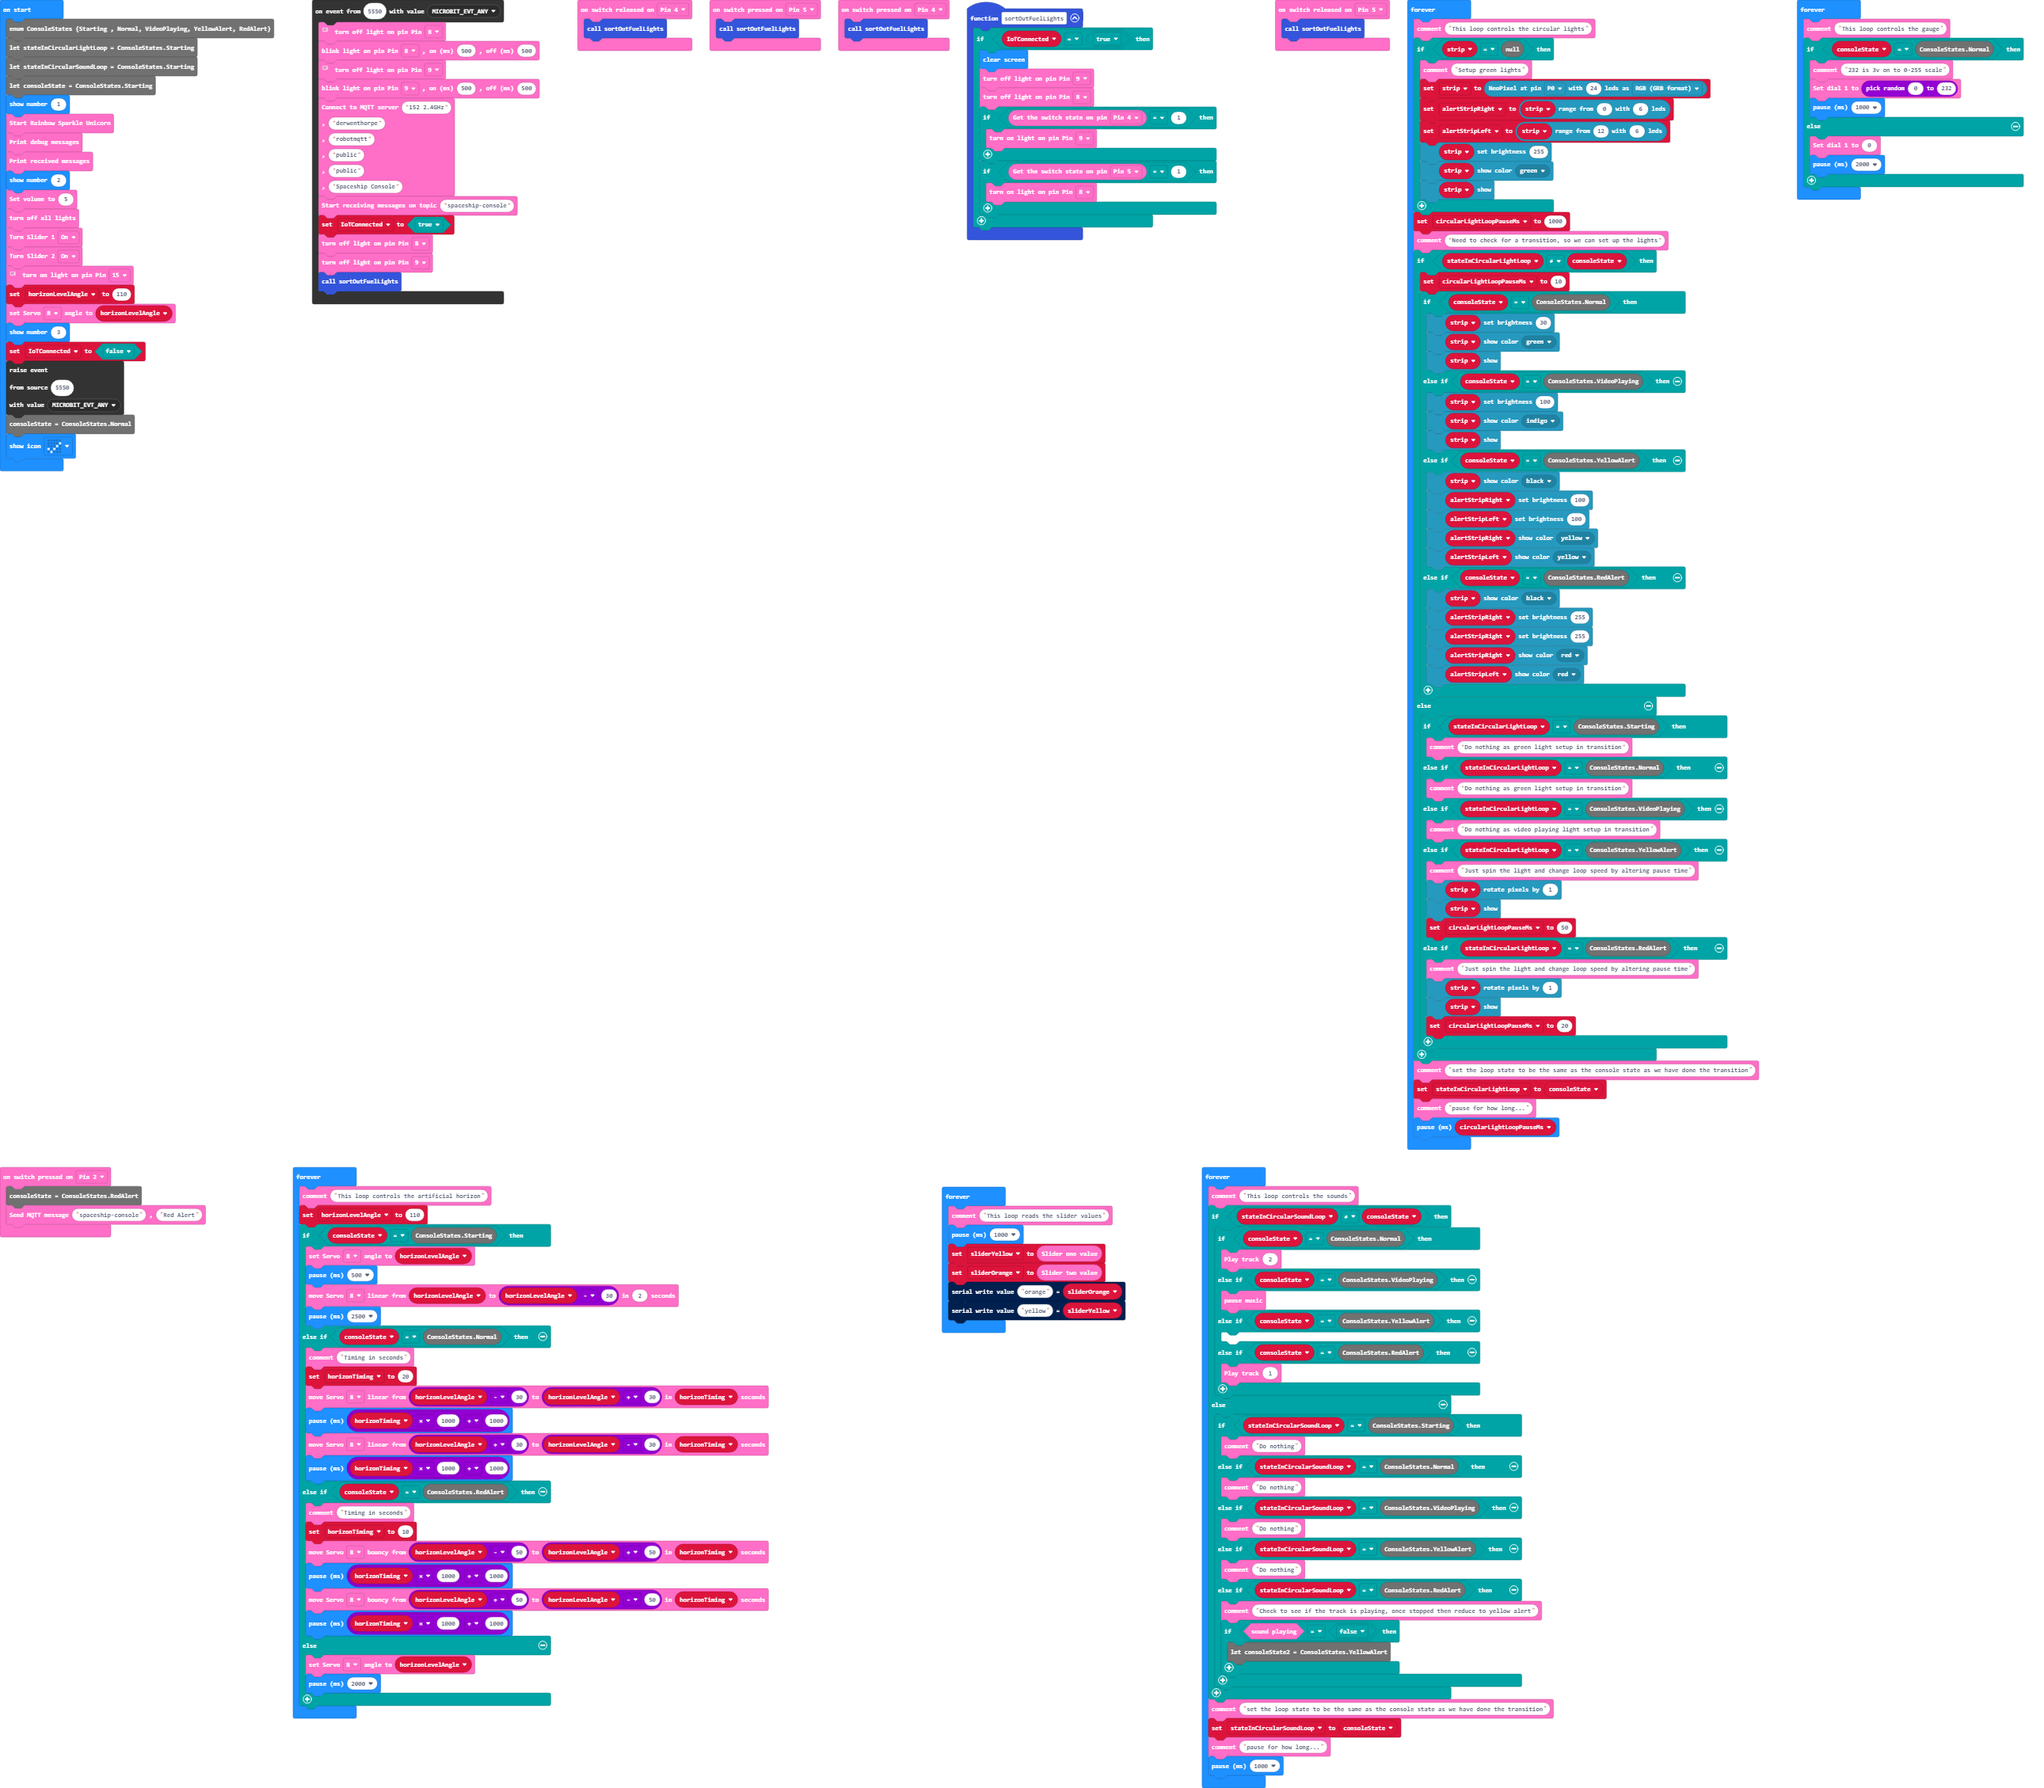
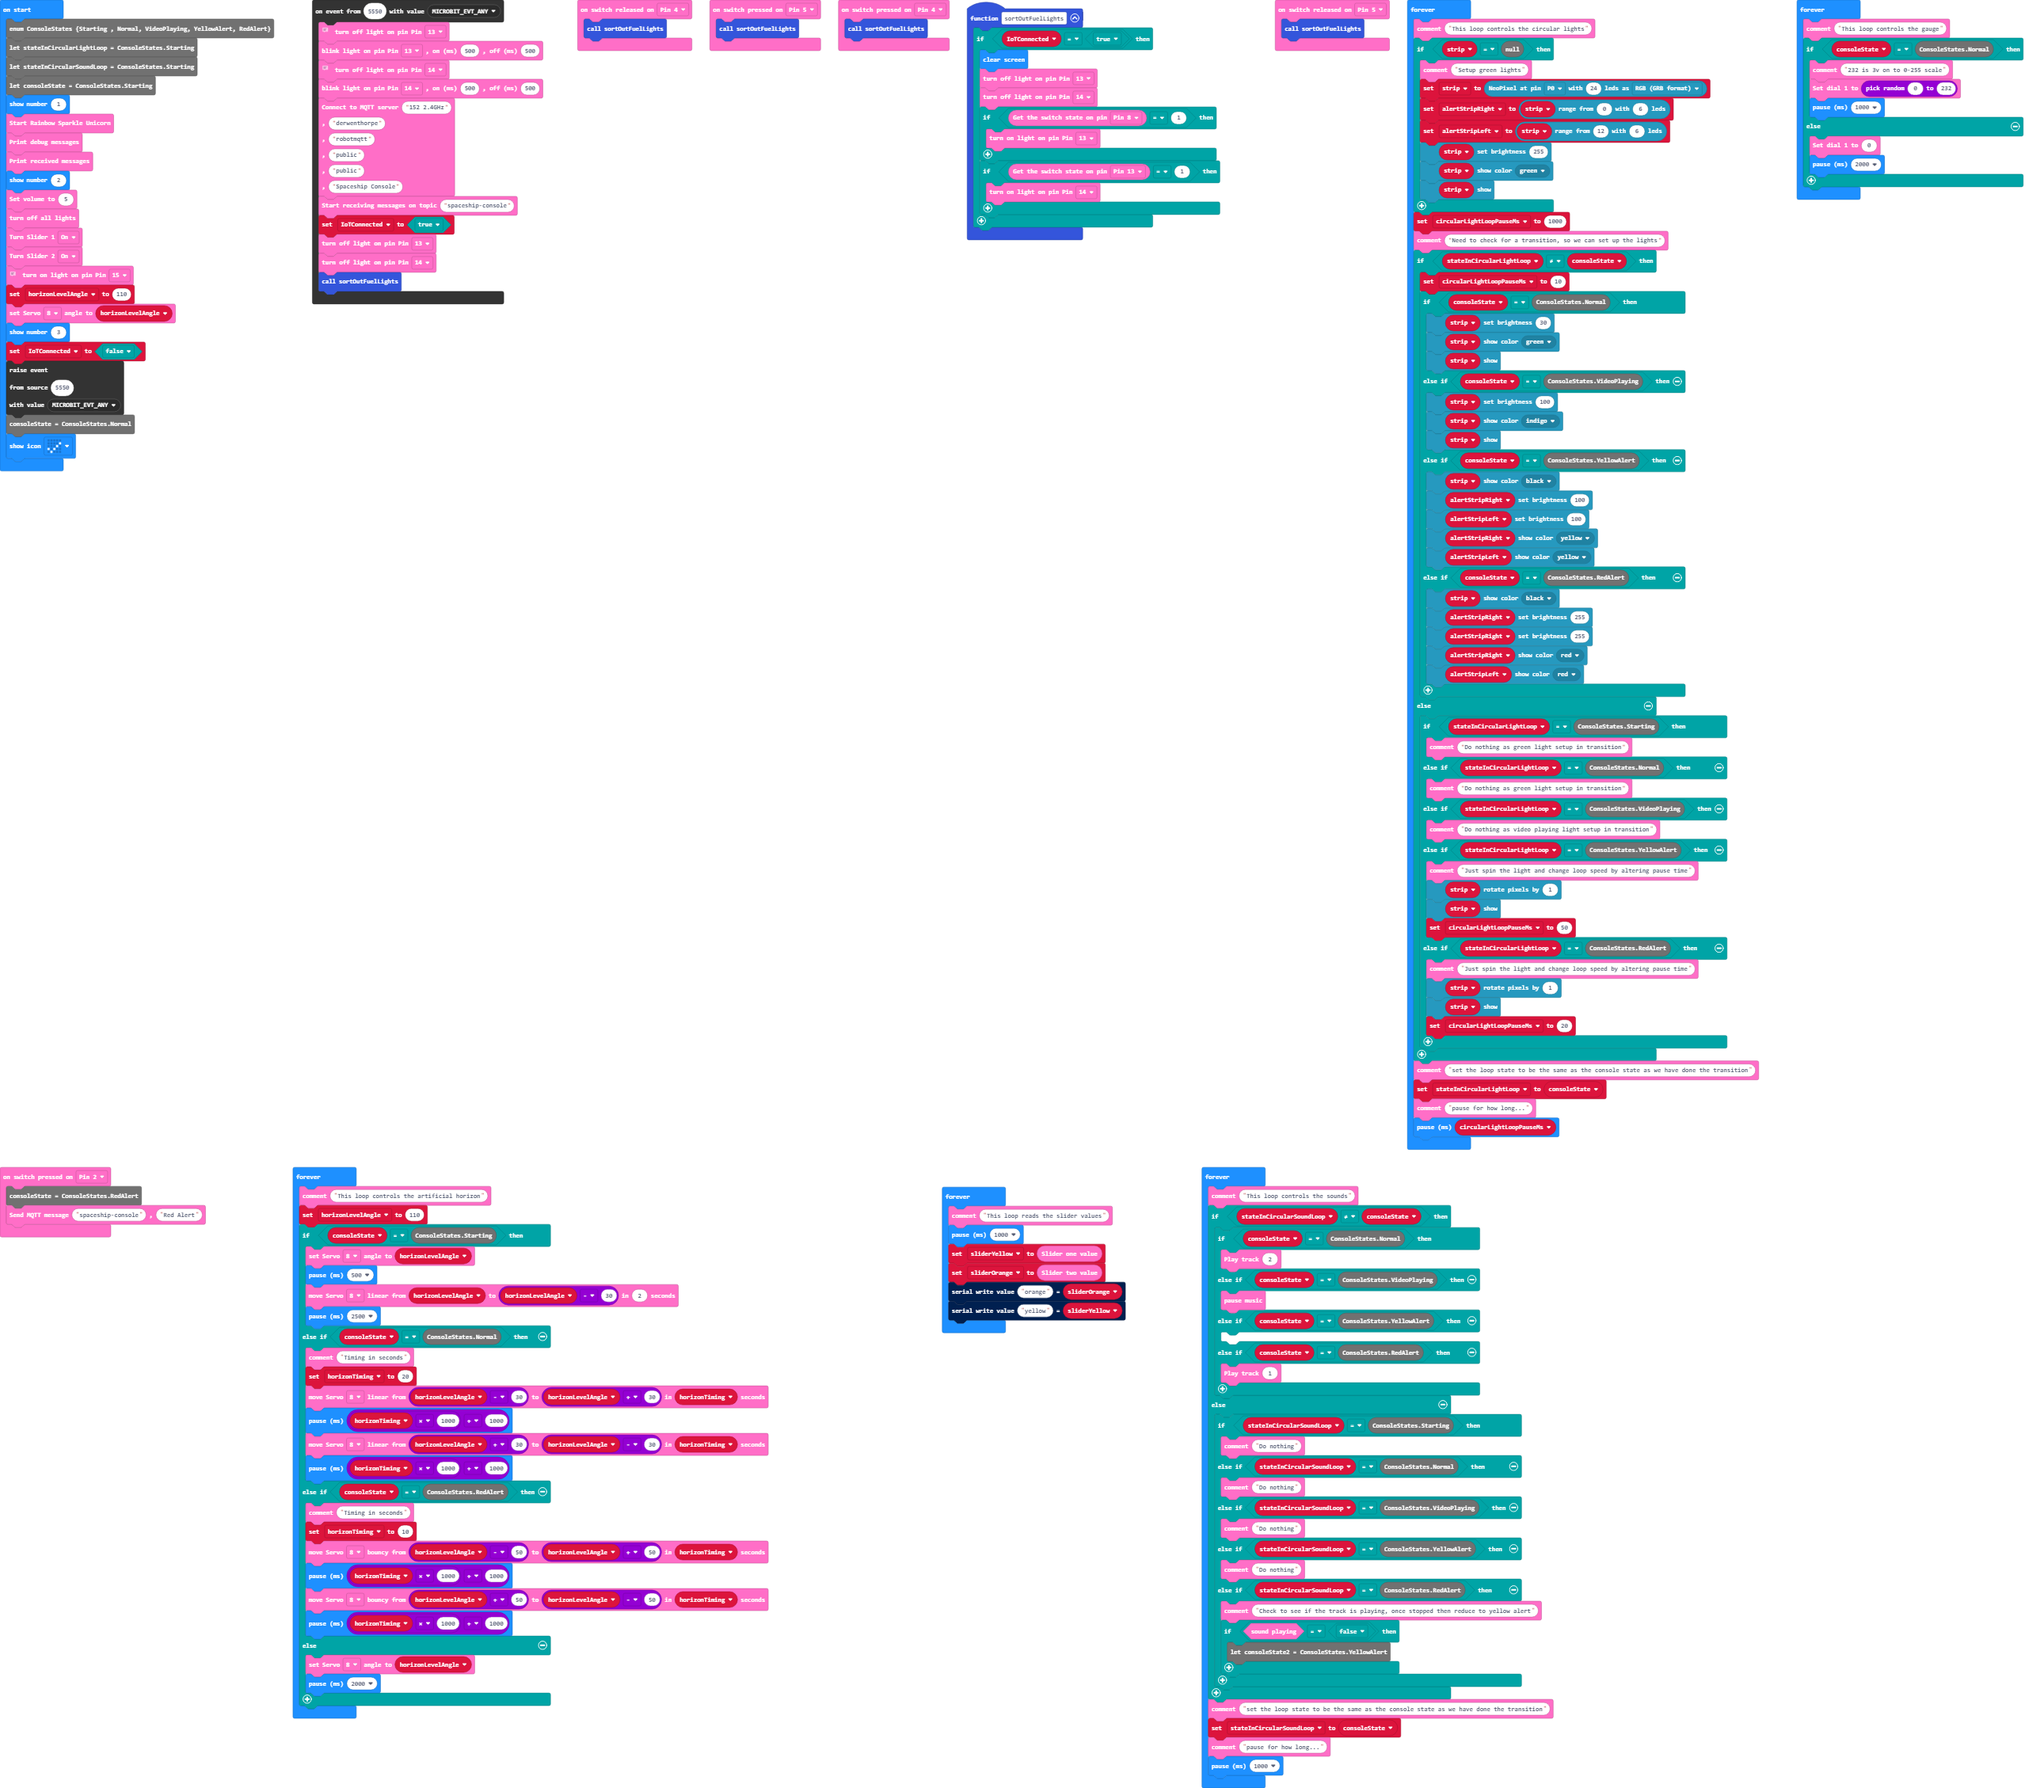
Update main.blocks, main.ts

Changed region(s): [[0.8679, 0.031, 0.8989, 0.062], [0.217, 0.031, 0.248, 0.062]]

diff --git a/main.ts b/main.ts
@@ -1,10 +1,10 @@
 control.onEvent(5550, EventBusValue.MICROBIT_EVT_ANY, function () {
     // Pink Right Light
-    RainbowSparkleUnicorn.Light.turnOff(lightPins.P8)
-    RainbowSparkleUnicorn.Light.blink(lightPins.P8, 500, 500)
+    RainbowSparkleUnicorn.Light.turnOff(lightPins.P13)
+    RainbowSparkleUnicorn.Light.blink(lightPins.P13, 500, 500)
     // Pink Left Light
-    RainbowSparkleUnicorn.Light.turnOff(lightPins.P9)
-    RainbowSparkleUnicorn.Light.blink(lightPins.P9, 500, 500)
+    RainbowSparkleUnicorn.Light.turnOff(lightPins.P14)
+    RainbowSparkleUnicorn.Light.blink(lightPins.P14, 500, 500)
     RainbowSparkleUnicorn.IoT.connectToInterWeb(
     "152 2.4GHz",
     "derwenthorpe",
@@ -15,8 +15,8 @@ control.onEvent(5550, EventBusValue.MICROBIT_EVT_ANY, function () {
     )
     RainbowSparkleUnicorn.IoT.startReceivingMessages("spaceship-console")
     IoTConnected = true
-    RainbowSparkleUnicorn.Light.turnOff(lightPins.P8)
-    RainbowSparkleUnicorn.Light.turnOff(lightPins.P9)
+    RainbowSparkleUnicorn.Light.turnOff(lightPins.P13)
+    RainbowSparkleUnicorn.Light.turnOff(lightPins.P14)
     sortOutFuelLights()
 })
 RainbowSparkleUnicorn.Switch.onSwitchPressed(switchPins.P2, function () {
@@ -35,13 +35,13 @@ RainbowSparkleUnicorn.Switch.onSwitchPressed(switchPins.P4, function () {
 function sortOutFuelLights () {
     if (IoTConnected == true) {
         basic.clearScreen()
-        RainbowSparkleUnicorn.Light.turnOff(lightPins.P9)
-        RainbowSparkleUnicorn.Light.turnOff(lightPins.P8)
-        if (RainbowSparkleUnicorn.Switch.getSwitchState(switchPins.P4) == 1) {
-            RainbowSparkleUnicorn.Light.turnOn(lightPins.P9)
+        RainbowSparkleUnicorn.Light.turnOff(lightPins.P13)
+        RainbowSparkleUnicorn.Light.turnOff(lightPins.P14)
+        if (RainbowSparkleUnicorn.Switch.getSwitchState(switchPins.P8) == 1) {
+            RainbowSparkleUnicorn.Light.turnOn(lightPins.P13)
         }
-        if (RainbowSparkleUnicorn.Switch.getSwitchState(switchPins.P5) == 1) {
-            RainbowSparkleUnicorn.Light.turnOn(lightPins.P8)
+        if (RainbowSparkleUnicorn.Switch.getSwitchState(switchPins.P13) == 1) {
+            RainbowSparkleUnicorn.Light.turnOn(lightPins.P14)
         }
     }
 }
